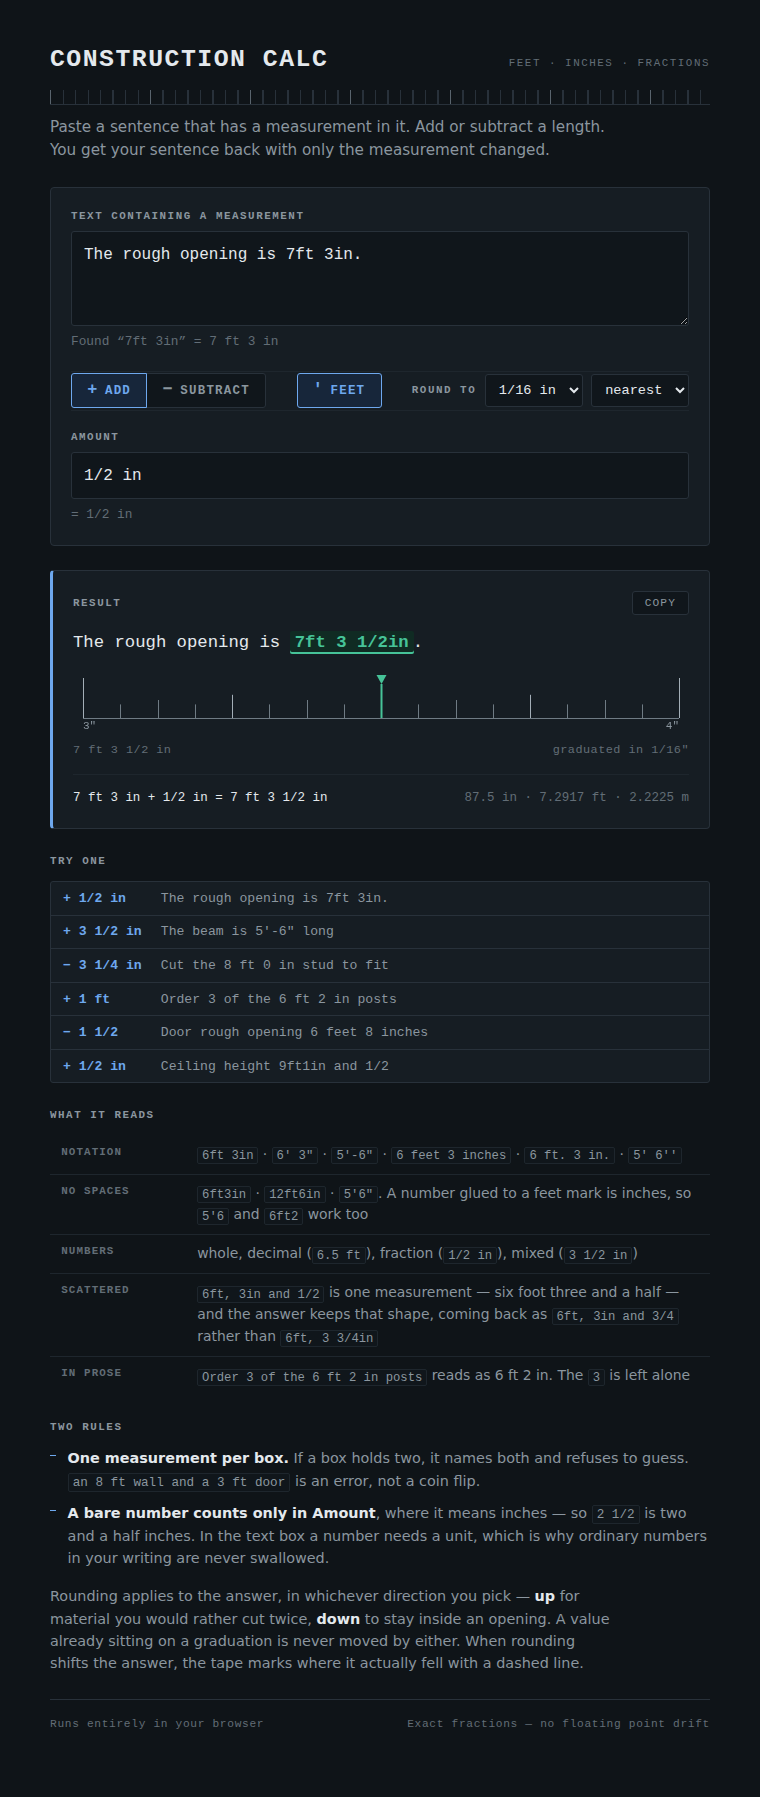
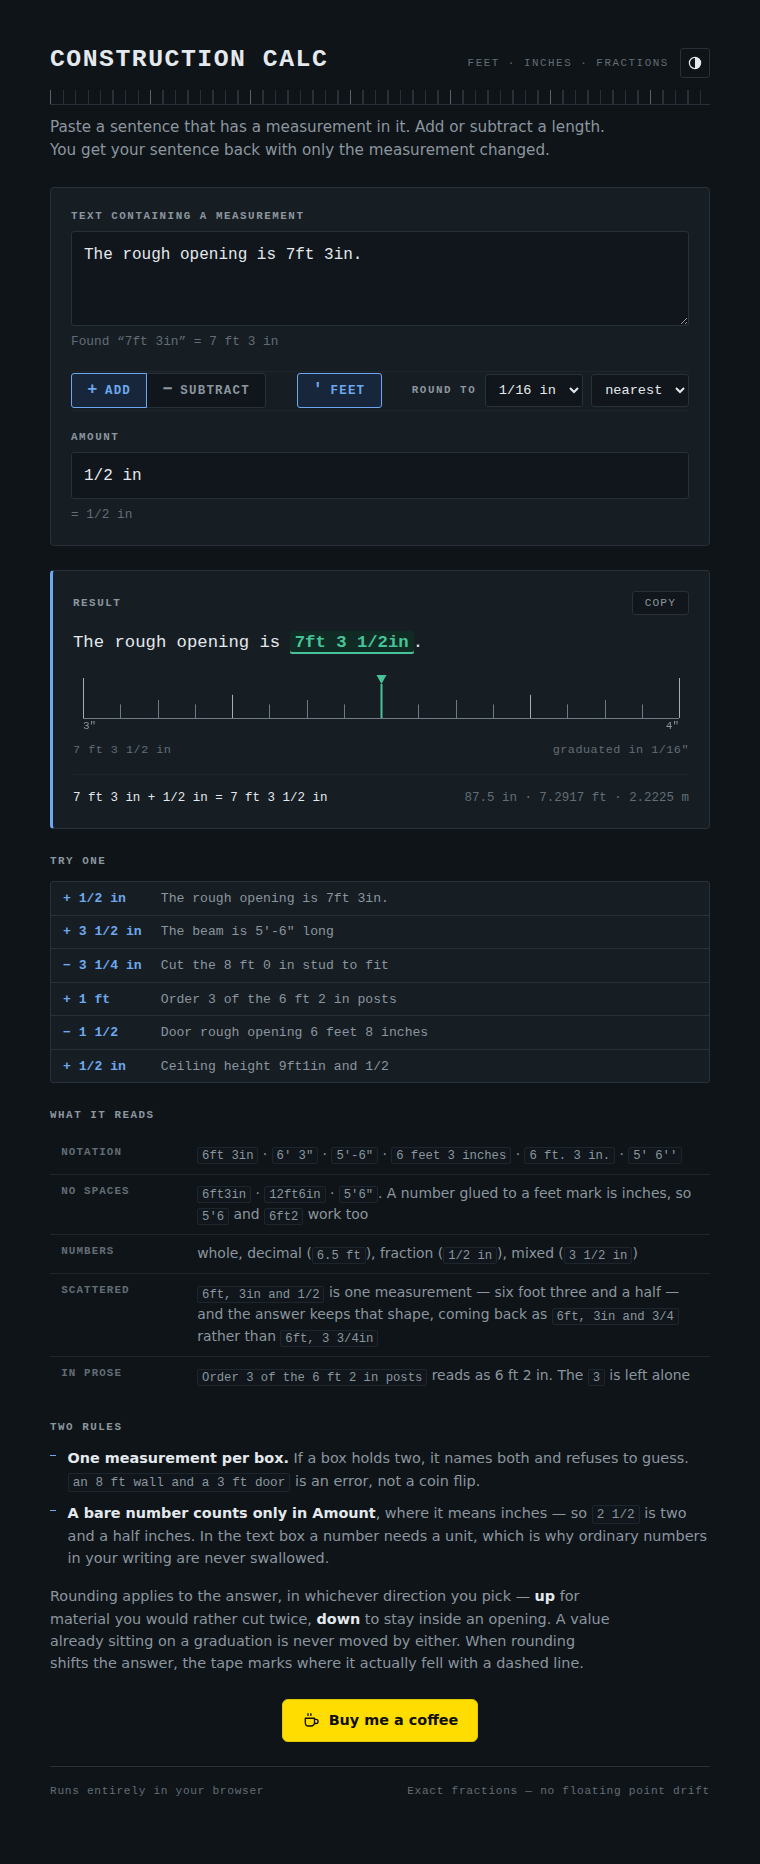
Add a theme control and a Buy Me a Coffee button
Both palettes were already in the stylesheet, but nothing could disagree
with the operating system, so a viewer on a dark OS had no way to reach
the light one. An icon in the masthead now cycles system, light and dark.
System is the default and means no data-theme attribute at all, so the
media query stays in charge and the page follows the OS if it flips; the
other two stamp the attribute and win over it. The choice is persisted
with the rest of the worksheet, and the canvas tape is repainted on every
switch since its colors are read from CSS.

The coffee button is a styled link carrying data-slug rather than the
official widget script. The single-file build runs under a CSP that
blocks external hosts, so the widget would render nothing there; a link
works in both targets and keeps the page free of third-party code.

Claude-Session: https://claude.ai/code/session_01AQDCyLznMd4k5XLzppRpvu

diff --git a/app.js b/app.js
@@ -11,7 +11,7 @@
     text: $('text'), textField: $('text-field'), textReadout: $('text-readout'),
     amount: $('amount'), amountField: $('amount-field'), amountReadout: $('amount-readout'),
     precision: $('precision'), rounding: $('rounding'),
-    opAdd: $('op-add'), opSub: $('op-sub'), feet: $('feet'),
+    opAdd: $('op-add'), opSub: $('op-sub'), feet: $('feet'), theme: $('theme'),
     result: $('result'), arith: $('arith'), copy: $('copy'), examples: $('examples'),
     tape: $('tape'), canvas: $('tape-canvas'),
     tapeLabel: $('tape-label'), tapeScale: $('tape-scale')
@@ -27,6 +27,37 @@
   // it. Turn it back off and it stays off while you keep editing.
   var aggregate = false;
   var sawFeet = false;
+
+  /* ---------------- colour theme ----------------
+     Both palettes have always been there; what was missing was any way to
+     disagree with the operating system. "system" is the default and means
+     exactly that — no attribute on the root, so the media query decides and
+     the page follows along if the OS flips mid-session. */
+
+  var THEMES = ['system', 'light', 'dark'];
+  var THEME_LABEL = {
+    system: 'following your system',
+    light: 'light',
+    dark: 'dark'
+  };
+  var theme = 'system';
+
+  function applyTheme(next) {
+    theme = next;
+    var root = document.documentElement;
+    if (next === 'system') root.removeAttribute('data-theme');
+    else root.setAttribute('data-theme', next);
+
+    var icons = el.theme.querySelectorAll('.theme-icon');
+    for (var i = 0; i < icons.length; i++) {
+      icons[i].hidden = icons[i].getAttribute('data-theme-icon') !== next;
+    }
+
+    var label = 'Colour theme: ' + THEME_LABEL[next] +
+                '. Switch to ' + THEME_LABEL[THEMES[(THEMES.indexOf(next) + 1) % 3]] + '.';
+    el.theme.setAttribute('aria-label', label);
+    el.theme.setAttribute('title', label);
+  }
 
   var DEFAULT_TEXT = 'The rough opening is 7ft 3in.';
 
@@ -227,6 +258,7 @@
         precision: el.precision.value,
         rounding: el.rounding.value,
         aggregate: aggregate,
+        theme: theme,
         // Stored alongside the choice: without it a reload would look like a
         // fresh crossing into feet and quietly undo a deliberate "off".
         sawFeet: sawFeet
@@ -256,6 +288,7 @@
       applyOperation(saved.operation);
     }
     if (typeof saved.aggregate === 'boolean') applyAggregate(saved.aggregate);
+    if (THEMES.indexOf(saved.theme) !== -1) applyTheme(saved.theme);
     if (typeof saved.sawFeet === 'boolean') sawFeet = saved.sawFeet;
   }
 
@@ -458,6 +491,11 @@
     applyAggregate(!aggregate);
     update();
   });
+  el.theme.addEventListener('click', function () {
+    applyTheme(THEMES[(THEMES.indexOf(theme) + 1) % THEMES.length]);
+    save();
+    drawTape();
+  });
   el.copy.addEventListener('click', copyResult);
 
   window.addEventListener('resize', drawTape);
@@ -474,6 +512,7 @@
     attributes: true, attributeFilter: ['data-theme']
   });
 
+  applyTheme(theme);
   restore();
   update();
 })();

diff --git a/test/browser.smoke.js b/test/browser.smoke.js
@@ -270,6 +270,17 @@ var STORE_KEY = 'construction-calc.v1';
       await page.evaluate(function (k) { localStorage.removeItem(k); }, STORE_KEY);
       await page.reload();
       check('clean slate returns the default', await page.inputValue('#text'), DEFAULT_TEXT);
+
+      // --- the coffee button ---
+      var bmc = page.locator('.bmc');
+      check('coffee button carries the slug', await bmc.getAttribute('data-slug'), 'llpamies');
+      check('coffee button points at the right page', await bmc.getAttribute('href'),
+            'https://www.buymeacoffee.com/llpamies');
+      check('coffee button opens safely', await bmc.getAttribute('rel'), 'noopener noreferrer');
+      check('coffee button is self-contained (no third-party script)',
+            await page.evaluate(function () {
+              return document.querySelectorAll('script[src^="http"]').length;
+            }), 0);
     }
 
     // --- theme integrity: body must paint its own ground, text must contrast ---
@@ -289,6 +300,42 @@ var STORE_KEY = 'construction-calc.v1';
     check(theme + ': text contrasts with ground', contrast > 0.4, true);
     check(theme + ': ground matches theme',
           theme === 'dark' ? lum(colors.bg) < 0.3 : lum(colors.bg) > 0.7, true);
+
+    // --- the theme control: it has to be able to disagree with the OS ---
+    var attr = function () {
+      return page.evaluate(function () {
+        return document.documentElement.getAttribute('data-theme');
+      });
+    };
+    var bodyLum = async function () {
+      return lum(await page.evaluate(function () {
+        return getComputedStyle(document.body).backgroundColor;
+      }));
+    };
+
+    check(theme + ': defaults to the system setting', await attr(), null);
+    check(theme + ': shows the system icon',
+          await page.locator('.theme-icon[data-theme-icon="system"]').isVisible(), true);
+
+    await page.click('#theme');
+    check(theme + ': one click forces light', await attr(), 'light');
+    check(theme + ': forced light really is light', await bodyLum() > 0.7, true);
+
+    await page.click('#theme');
+    check(theme + ': two clicks force dark', await attr(), 'dark');
+    check(theme + ': forced dark really is dark', await bodyLum() < 0.3, true);
+
+    await page.click('#theme');
+    check(theme + ': three clicks return to the system setting', await attr(), null);
+
+    await page.click('#theme');
+    await page.reload();
+    check(theme + ': the choice survives a reload', await attr(), 'light');
+
+    // back to the system default, so the screenshots show the real thing
+    await page.click('#theme');
+    await page.click('#theme');
+    check(theme + ': restored to system', await attr(), null);
 
     await page.screenshot({ path: path.join(DIR, theme === 'light' ? 'screenshot.png' : 'screenshot-dark.png'), fullPage: true });
     await page.close();

diff --git a/index.html b/index.html
@@ -14,7 +14,28 @@
   <header class="masthead">
     <div class="title-row">
       <h1>Construction Calc</h1>
-      <span class="stamp">Feet · Inches · Fractions</span>
+      <div class="title-aside">
+        <span class="stamp">Feet · Inches · Fractions</span>
+        <button type="button" class="theme" id="theme">
+          <svg class="theme-icon" data-theme-icon="system" viewBox="0 0 24 24"
+               fill="none" stroke="currentColor" stroke-width="1.8" aria-hidden="true">
+            <circle cx="12" cy="12" r="8.4"/>
+            <path d="M12 3.6a8.4 8.4 0 0 1 0 16.8Z" fill="currentColor" stroke="none"/>
+          </svg>
+          <svg class="theme-icon" data-theme-icon="light" viewBox="0 0 24 24" hidden
+               fill="none" stroke="currentColor" stroke-width="1.8" stroke-linecap="round"
+               aria-hidden="true">
+            <circle cx="12" cy="12" r="4.1"/>
+            <path d="M12 2.5v2.4M12 19.1v2.4M4.6 4.6l1.7 1.7M17.7 17.7l1.7 1.7M2.5
+                     12h2.4M19.1 12h2.4M4.6 19.4l1.7-1.7M17.7 6.3l1.7-1.7"/>
+          </svg>
+          <svg class="theme-icon" data-theme-icon="dark" viewBox="0 0 24 24" hidden
+               fill="none" stroke="currentColor" stroke-width="1.8" stroke-linejoin="round"
+               aria-hidden="true">
+            <path d="M20.4 14.5A8.5 8.5 0 0 1 9.5 3.6a8.5 8.5 0 1 0 10.9 10.9Z"/>
+          </svg>
+        </button>
+      </div>
     </div>
     <div class="graduations" aria-hidden="true"></div>
     <p class="lede">
@@ -140,6 +161,20 @@
       shifts the answer, the tape marks where it actually fell with a dashed line.
     </p>
   </section>
+
+  <div class="support">
+    <a class="bmc" data-slug="llpamies" href="https://www.buymeacoffee.com/llpamies"
+       target="_blank" rel="noopener noreferrer">
+      <svg class="bmc-cup" viewBox="0 0 24 24" fill="none" stroke="currentColor"
+           stroke-width="1.7" stroke-linecap="round" stroke-linejoin="round"
+           aria-hidden="true">
+        <path d="M4.2 9.2h11.6v5.6a4.2 4.2 0 0 1-4.2 4.2H8.4a4.2 4.2 0 0 1-4.2-4.2Z"/>
+        <path d="M15.8 10.6h1.9a2.6 2.6 0 0 1 0 5.2h-1.9"/>
+        <path d="M7.6 3.4v2.2M11.2 3.4v2.2"/>
+      </svg>
+      Buy me a coffee
+    </a>
+  </div>
 
   <footer class="foot">
     <span>Runs entirely in your browser</span>

diff --git a/styles.css b/styles.css
@@ -111,6 +111,32 @@ h1 {
   text-wrap: balance;
 }
 
+.title-aside {
+  display: flex;
+  align-items: center;
+  gap: .7rem;
+}
+
+/* Small, quiet, and out of the way: the theme is a preference, not a tool. */
+.theme {
+  display: inline-flex;
+  align-items: center;
+  justify-content: center;
+  width: 30px;
+  height: 30px;
+  padding: 0;
+  border: 1px solid transparent;
+  border-radius: 3px;
+  background: none;
+  color: var(--ink-faint);
+  cursor: pointer;
+}
+
+.theme:hover { color: var(--ink); border-color: var(--rule); }
+
+.theme-icon { width: 16px; height: 16px; display: block; }
+.theme-icon[hidden] { display: none; }
+
 .stamp {
   font-family: var(--mono);
   font-size: .68rem;
@@ -505,6 +531,36 @@ code {
   font-size: .9rem;
 }
 .rounding-note b { color: var(--ink); font-weight: 650; }
+
+/* Buy Me a Coffee. Their yellow is the whole point of the button, so it is
+   fixed rather than themed — it has to stay recognisable in both palettes,
+   and #000 on #FFDD00 carries its own contrast wherever it lands. */
+.support { display: flex; justify-content: center; }
+
+.bmc {
+  display: inline-flex;
+  align-items: center;
+  gap: .5rem;
+  padding: .6rem 1.15rem;
+  border: 1px solid #e5c700;
+  border-radius: 6px;
+  background: #ffdd00;
+  color: #101010;
+  font-family: var(--sans);
+  font-size: .9rem;
+  font-weight: 600;
+  text-decoration: none;
+  transition: transform .12s ease, box-shadow .12s ease;
+}
+
+.bmc:hover {
+  transform: translateY(-1px);
+  box-shadow: 0 3px 10px rgba(0, 0, 0, .22);
+}
+
+.bmc:focus-visible { outline: 2px solid var(--accent); outline-offset: 2px; }
+
+.bmc-cup { width: 19px; height: 19px; display: block; }
 
 .foot {
   border-top: 1px solid var(--rule);

diff --git a/README.md b/README.md
@@ -106,6 +106,19 @@ Either way the notation of the source is echoed, so `87.5"` grows into `7'4"`
 while `6 feet 3 inches` collapses to `75 1/2 inches`. Feet appear only once
 there are twelve inches to show them.
 
+## Theme
+
+Both palettes were always in the stylesheet; what was missing was any way to
+disagree with the operating system. The icon beside the masthead stamp cycles
+**system → light → dark** and starts on system, which means no `data-theme`
+attribute on the root at all — the media query decides, and the page follows if
+the OS flips mid-session. The other two states stamp `data-theme` and win over
+it in both directions. The choice is remembered with the rest of the worksheet.
+
+The tape is painted from colors read out of the CSS, so it is repainted on
+every switch — by the button, by the OS, or by a host stamping the attribute
+itself.
+
 ## Where you left off
 
 You rarely measure a wall once. The whole worksheet — the sentence, the amount,
@@ -123,6 +136,16 @@ exactly as before and simply not remembering. Every read and write is guarded,
 and a stored entry that is unparseable or names a precision, rounding mode or
 direction the controls do not offer is ignored field by field rather than
 taken on faith.
+
+## Buy me a coffee
+
+The footer carries a Buy Me a Coffee button for `llpamies`. It is a plain
+styled link with the `data-slug` attribute, not the official widget: that
+widget is a script from `cdnjs.buymeacoffee.com`, and the single-file build of
+this page runs under a strict CSP that blocks every external host, so the
+widget would render nothing there. A link works in both places, keeps the page
+dependency-free, and loads no third-party code. Swapping in the real widget is
+a one-line change if the hosted site is the only target that matters.
 
 ## Running it
 
